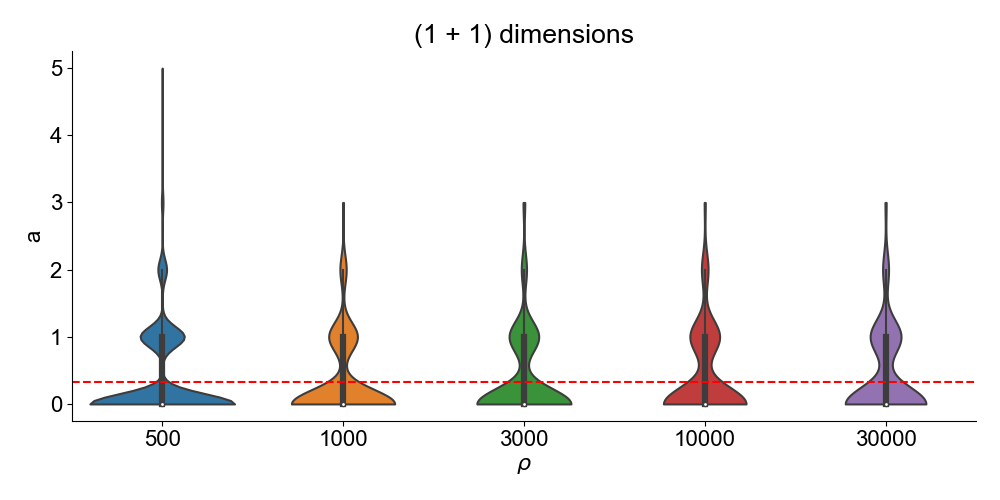
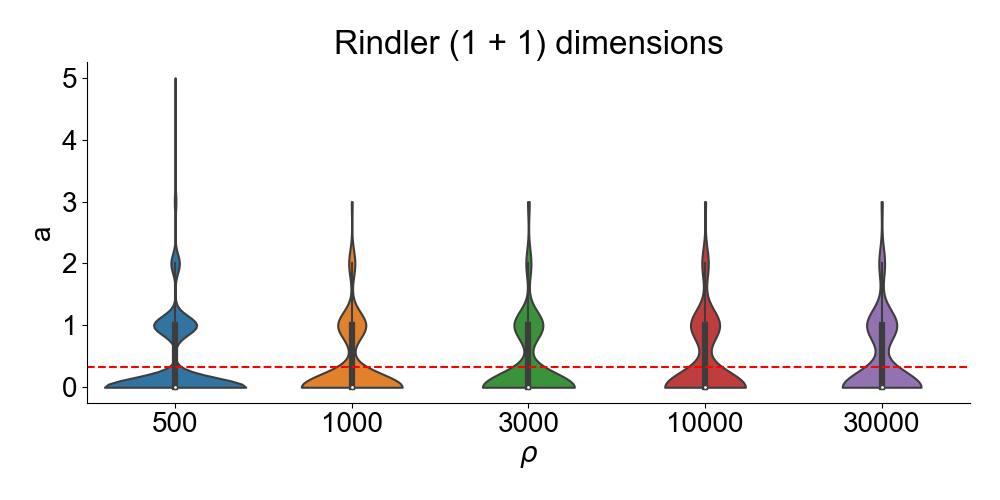
Update plots

diff --git a/H_Dynamic_plot.py b/H_Dynamic_plot.py
@@ -1,0 +1,32 @@
+import pandas as pd
+import matplotlib.pyplot as plt
+import seaborn as sns
+from causalsetfunctions import n_sphere_surfacearea
+
+plt.rc('font', family='Arial', size=20)
+
+# theoretical_a = {
+#     2: 1/3,
+#     3: 0.218853,
+#     4: 0.173205
+# }
+
+def H(s):
+    return [int(x) for x in s.replace('[', '').replace(']', '').split(', ') if x != '']
+
+def total_links(H):
+    return sum([(i + 1) * H[i] for i in range(len(H))])
+
+d_array = [2, 3, 4]
+# d_array = [2]
+for d in d_array: 
+    df = pd.read_csv(f'H_Dynamic{d}d.csv', names=['rho', 'H'], header=None)
+    df['a'] = df.apply(lambda row: row['rho']**((2-d)/d)*(total_links(H(row['H']))), axis=1) / n_sphere_surfacearea(n = d - 2, r = 3)
+    sns.catplot(x='rho', y='a', data=df, height=5, aspect=2, kind='violin', cut=0)
+    # plt.axhline(theoretical_a[d], color='r', linestyle='--')
+    plt.xlabel(r'$\rho$')
+    plt.ylabel('a')
+    plt.title(f'Dynamic ({d-1} + 1) dimensions')
+    plt.tight_layout()
+    plt.savefig(f'H_Dynamic{d}d.png')
+    # plt.show()

diff --git a/H_Rindler_plot.py b/H_Rindler_plot.py
@@ -2,7 +2,7 @@ import pandas as pd
 import matplotlib.pyplot as plt
 import seaborn as sns
 
-plt.rc('font', family='Arial', size=16)
+plt.rc('font', family='Arial', size=20)
 
 theoretical_a = {
     2: 1/3,
@@ -25,7 +25,7 @@ for d in d_array:
     plt.axhline(theoretical_a[d], color='r', linestyle='--')
     plt.xlabel(r'$\rho$')
     plt.ylabel('a')
-    plt.title(f'({d-1} + 1) dimensions')
+    plt.title(f'Rindler ({d-1} + 1) dimensions')
     plt.tight_layout()
     plt.savefig(f'H_Rindler{d}d.png')
     # plt.show()
